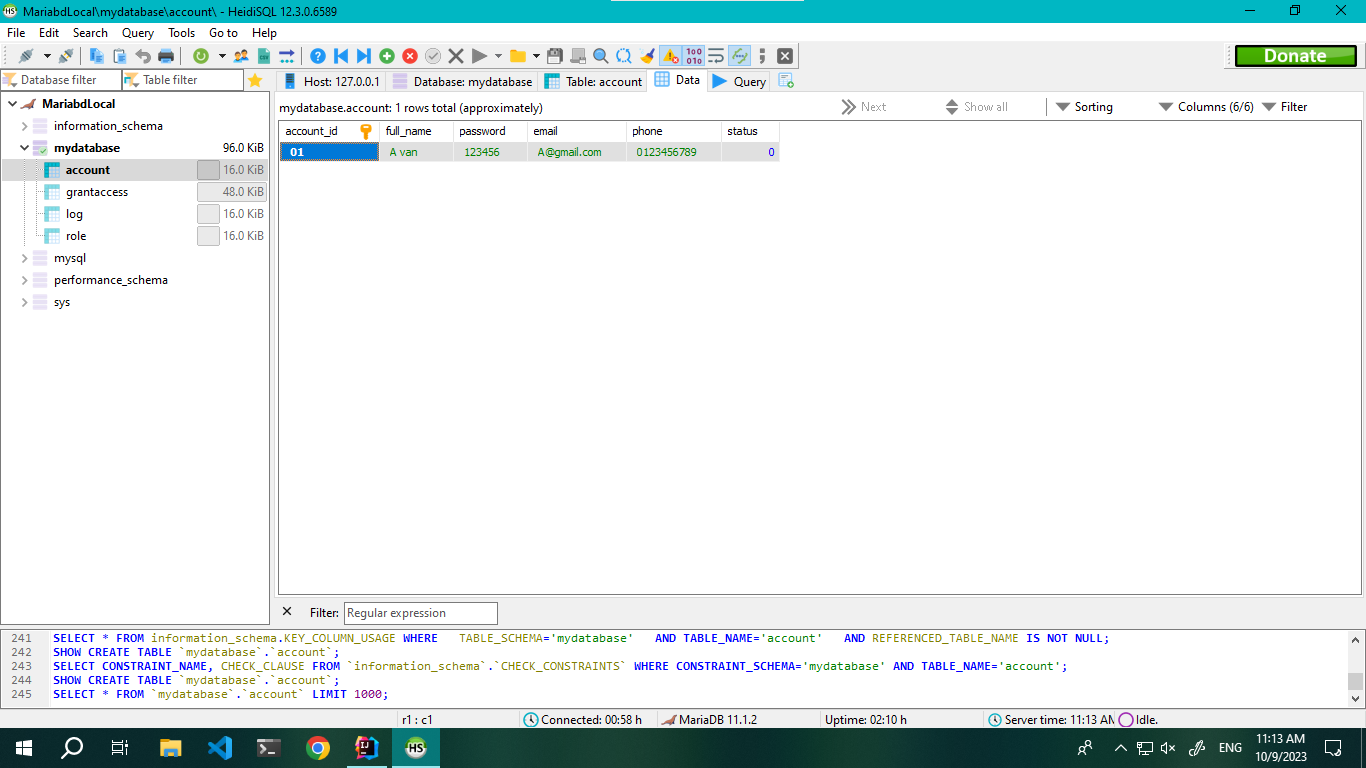
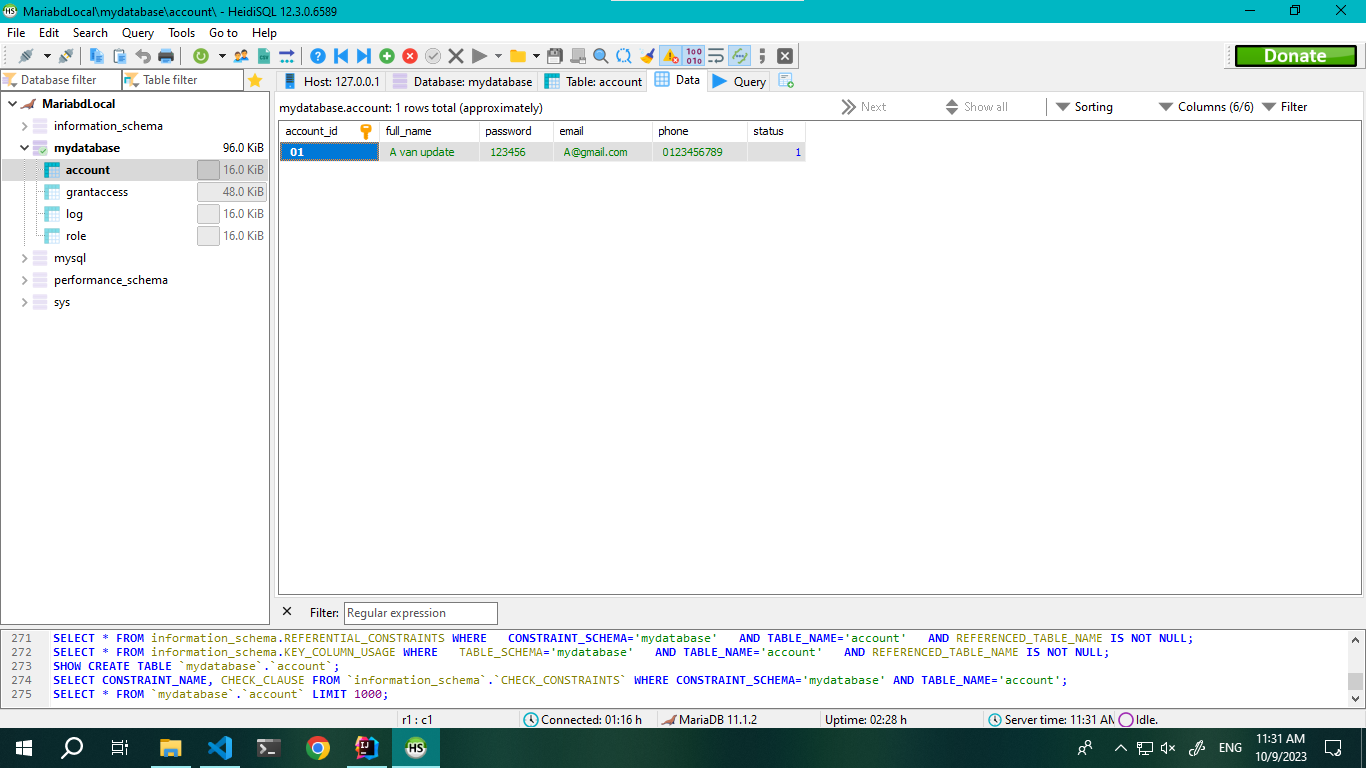
repository add chuc nang update account

Changed region(s): [[0.0307, 0.8125, 0.8609, 0.9062], [0.3075, 0.1562, 0.5227, 0.2188], [0.5227, 0.1562, 0.6149, 0.2188]]

diff --git a/week1_demoServlet/src/main/java/vn/edu/iuh/fit/week1_demoservlet/repositories/AccountRepositories.java b/week1_demoServlet/src/main/java/vn/edu/iuh/fit/week1_demoservlet/repositories/AccountRepositories.java
@@ -30,6 +30,20 @@ public class AccountRepositories {
     }
 
     // cap nhat acc
+    public void update(Account account) throws Exception{
+        String sql = "UPDATE Account set full_name=?, password=?, email=?, phone=?, status=? where account_id=?";
+        PreparedStatement ps = connect.prepareStatement(sql);
+        ps.setString(6, account.getAccount_id());
+        ps.setString(1, account.getFull_name());
+        ps.setString(2, account.getPassword());
+        ps.setString(3, account.getEmail());
+        ps.setString(4, account.getPhone());
+        ps.setInt(5, account.getStatus());
+        ps.executeUpdate();
+
+
+    }
+
 
 
 

diff --git a/week1_demoServlet/src/main/java/vn/edu/iuh/fit/week1_demoservlet/MainWeek1.java b/week1_demoServlet/src/main/java/vn/edu/iuh/fit/week1_demoservlet/MainWeek1.java
@@ -21,9 +21,10 @@ public class MainWeek1 {
        try {
 //            Connection z = new ConnectionDB().getConnectionBD();
            AccountRepositories repositories = new AccountRepositories();
-           Account acc1 = new Account("01","A van","123456","A@gmail.com"
-                   ,"0123456789",0);
-           repositories.insert(acc1);
+           Account acc1 = new Account("01","A van update","123456"
+                   ,"A@gmail.com"
+                   ,"0123456789",1);
+           repositories.update(acc1);
 
            System.out.println("ok");
 
